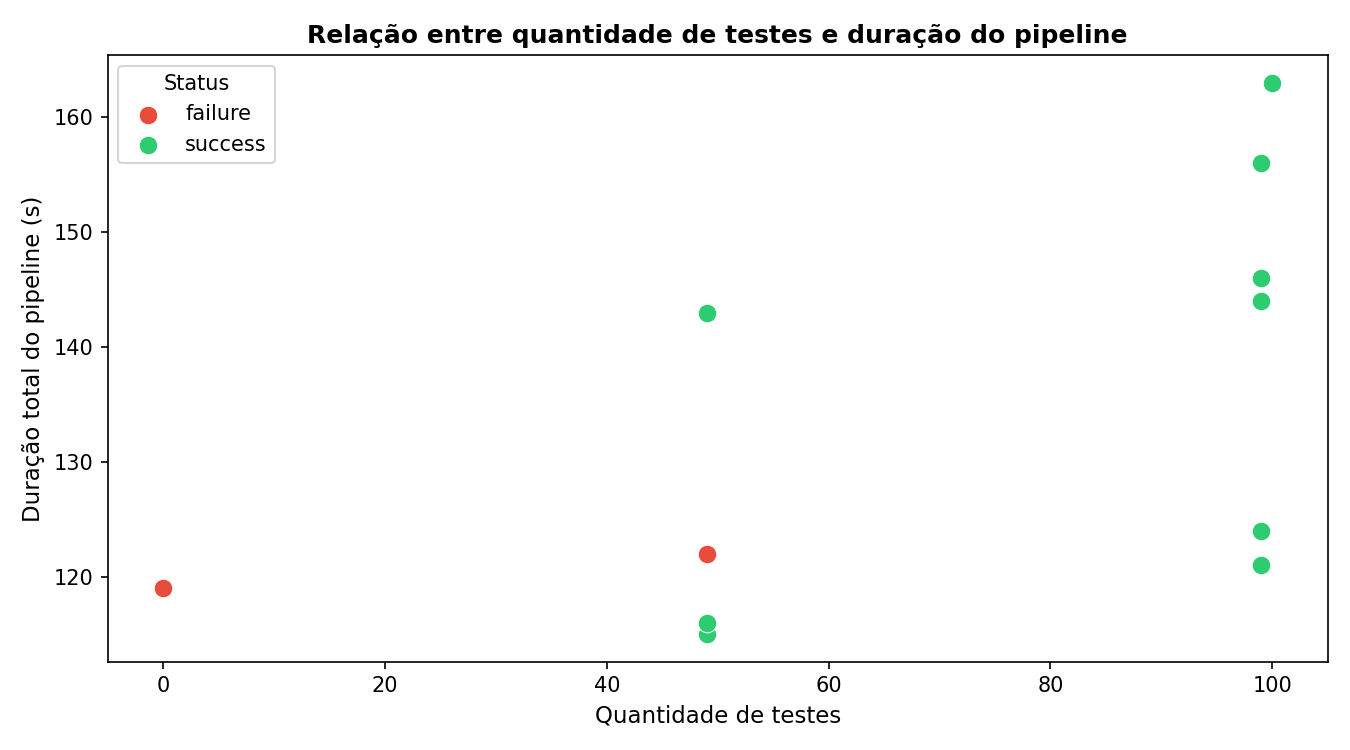
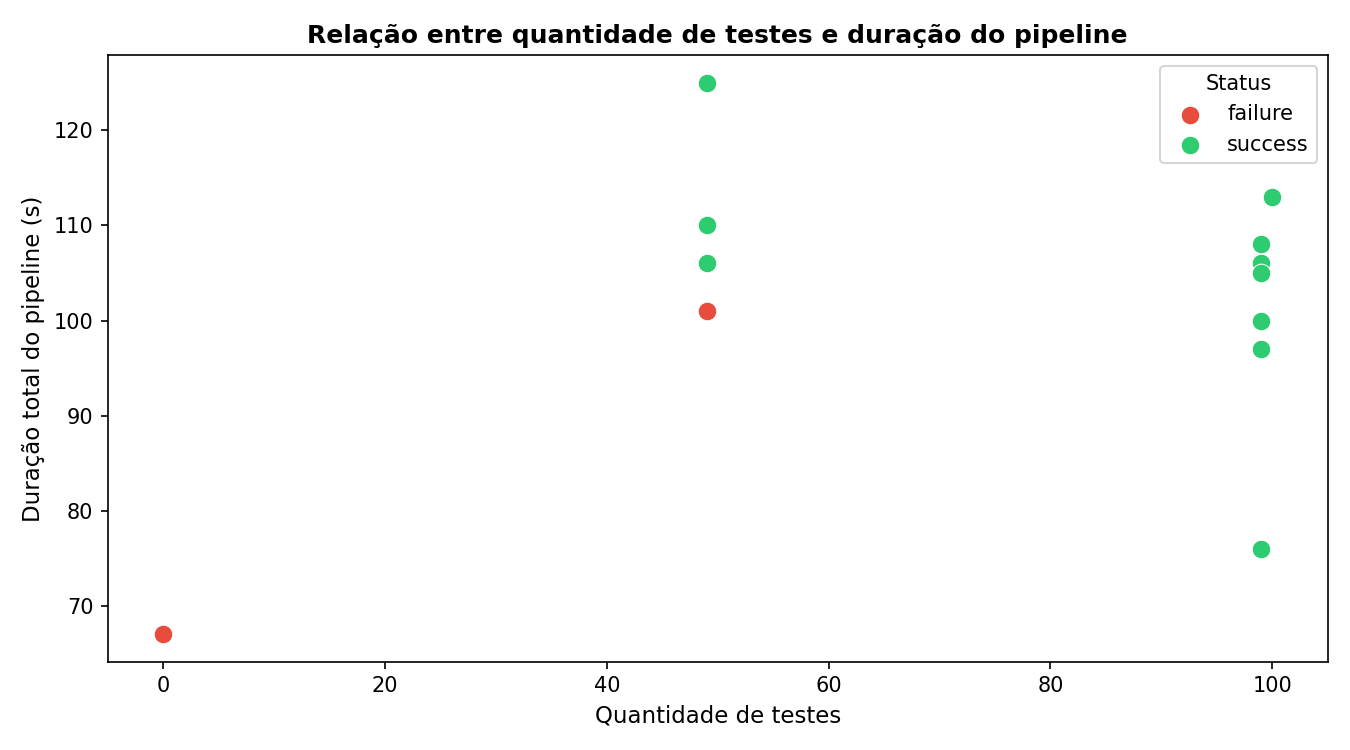
docs: REPORT.md com dados reais do repo pessoal + métricas atualizadas
- REPORT.md: relatório técnico completo com 12 run IDs reais do
  repositório Viniciusibin/Ponderada-M10-S07
- data/metrics.csv: métricas coletadas das 12 execuções reais
- graphs/: gráficos regenerados com dados das 12 execuções

diff --git a/REPORT.md b/REPORT.md
@@ -1,0 +1,230 @@
+# Relatório Técnico — Instrumentação de Pipeline CI/CD
+
+**Aluno:** Vinicius Ibiapina  
+**Módulo:** M10 — Sprint 07  
+**Repositório:** https://github.com/Viniciusibin/Ponderada-M10-S07  
+**Pipeline:** [.github/workflows/ci.yml](.github/workflows/ci.yml)  
+**Execuções:** https://github.com/Viniciusibin/Ponderada-M10-S07/actions
+
+---
+
+## 1. Objetivo e Hipóteses Iniciais
+
+O experimento tem como objetivo instrumentar um pipeline de CI/CD no GitHub Actions, coletar métricas reais de execução e analisar comportamento, desempenho e gargalos a partir de 12 execuções com variações controladas.
+
+### Hipóteses iniciais
+
+| # | Hipótese |
+|---|----------|
+| H1 | O cache de dependências pip reduzirá o tempo de instalação em pelo menos 30% |
+| H2 | A execução paralela dos jobs de lint e test reduzirá o tempo total do workflow |
+| H3 | A etapa de instalação de dependências será o principal gargalo sem cache |
+| H4 | Testes lentos (sleep) aumentarão o tempo de forma proporcional ao delay |
+
+---
+
+## 2. Descrição do Projeto
+
+Projeto Python com uma calculadora (`src/calculator.py`) com 15 funções matemáticas cobertas por testes unitários com `pytest`.
+
+**Pipeline (jobs por padrão sequenciais):**
+1. **Lint** — `flake8` análise estática
+2. **Test** — `pytest` com relatório JUnit XML e cobertura de código
+3. **Collect Metrics** — coleta metadados do run e faz upload como artifact
+
+---
+
+## 3. Variações Controladas e Execuções Reais
+
+| # | Run ID | Commit | Variação | Status | Duração (s) |
+|---|--------|--------|----------|--------|-------------|
+| 1 | [26891388441](https://github.com/Viniciusibin/Ponderada-M10-S07/actions/runs/26891388441) | `fef6429` | Baseline — cache ON, 49 testes, sequencial | ✅ success | 110 |
+| 2 | [26891403962](https://github.com/Viniciusibin/Ponderada-M10-S07/actions/runs/26891403962) | `7718246` | Cache OFF | ✅ success | 125 |
+| 3 | [26891424211](https://github.com/Viniciusibin/Ponderada-M10-S07/actions/runs/26891424211) | `775ac1e` | Assertion errada (`add(2,3) == 99`) | ❌ failure | 101 |
+| 4 | [26891442771](https://github.com/Viniciusibin/Ponderada-M10-S07/actions/runs/26891442771) | `d2ce249` | Correção do teste + cache ON | ✅ success | 106 |
+| 5 | [26891473415](https://github.com/Viniciusibin/Ponderada-M10-S07/actions/runs/26891473415) | `a514613` | +50 testes parametrizados (99 total) | ✅ success | 106 |
+| 6 | [26891494904](https://github.com/Viniciusibin/Ponderada-M10-S07/actions/runs/26891494904) | `362dbdc` | Teste lento — `sleep(10)` | ✅ success | 113 |
+| 7 | [26891500420](https://github.com/Viniciusibin/Ponderada-M10-S07/actions/runs/26891500420) | `dcdd777` | Remove teste lento | ✅ success | 108 |
+| 8 | [26891525072](https://github.com/Viniciusibin/Ponderada-M10-S07/actions/runs/26891525072) | `92fb705` | Linha >88 chars — falha de lint | ❌ failure | 67 |
+| 9 | [26891538406](https://github.com/Viniciusibin/Ponderada-M10-S07/actions/runs/26891538406) | `aa47bd2` | Correção do lint | ✅ success | 100 |
+| 10 | [26891560443](https://github.com/Viniciusibin/Ponderada-M10-S07/actions/runs/26891560443) | `38febb1` | Jobs lint e test em **paralelo** | ✅ success | 76 |
+| 11 | [26891579615](https://github.com/Viniciusibin/Ponderada-M10-S07/actions/runs/26891579615) | `6bc04bf` | Jobs lint e test **sequenciais** | ✅ success | 105 |
+| 12 | [26891603404](https://github.com/Viniciusibin/Ponderada-M10-S07/actions/runs/26891603404) | `488ff0f` | Cache ON com hit real | ✅ success | 97 |
+
+---
+
+## 4. Métricas Coletadas
+
+Arquivo: [`data/metrics.csv`](data/metrics.csv)
+
+### Tempo por job (segundos)
+
+| Run # | Lint | Test | Collect Metrics | Total | Testes | Falhas | Duração testes (s) |
+|-------|------|------|-----------------|-------|--------|--------|-------------------|
+| 1  | 32 | 32 | 32 | 110 | 49 | 0 | 0.168 |
+| 2  | 30 | 41 | 42 | 125 | 49 | 0 | 0.187 |
+| 3  | 29 | 30 | 30 | 101 | 49 | 1 | 0.183 |
+| 4  | 28 | 34 | 30 | 106 | 49 | 0 | 0.176 |
+| 5  | 30 | 32 | 32 | 106 | 99 | 0 | 0.245 |
+| 6  | 27 | 41 | 32 | 113 | 100 | 0 | 10.255 |
+| 7  | 35 | 28 | 32 | 108 | 99 | 0 | 0.247 |
+| 8  | 29 | — | 30 | 67 | 0 | 0 | 0.000 |
+| 9  | 28 | 30 | 29 | 100 | 99 | 0 | 0.267 |
+| 10 | 28 | 36 | 31 | 76 | 99 | 0 | 0.263 |
+| 11 | 26 | 36 | 30 | 105 | 99 | 0 | 0.301 |
+| 12 | 28 | 28 | 29 | 97 | 99 | 0 | 0.193 |
+
+> Run #8: job Test não executou pois `needs: lint` e lint falhou — duração registrada como -1 (skipped).
+
+---
+
+## 5. Gráficos
+
+### Gráfico 1 — Tempo total do pipeline por execução
+
+![Tempo total por execução](graphs/graph_01_pipeline_duration.png)
+
+### Gráfico 2 — Duração por job em cada execução
+
+![Tempo por job](graphs/graph_02_job_duration.png)
+
+### Gráfico 3 — Taxa de sucesso e falha
+
+![Taxa de sucesso/falha](graphs/graph_03_success_rate.png)
+
+### Gráfico 4 — Quantidade de testes × duração do pipeline
+
+![Testes vs duração](graphs/graph_04_tests_vs_duration.png)
+
+---
+
+## 6. Análise dos Resultados
+
+### 6.1 Qual etapa mais contribuiu para o tempo total?
+
+Nenhum job isolado domina o tempo — todos ficaram entre 27-41s por run. O **job Test** teve a maior variância: foi de 28s (run #12) a 41s (runs #2 e #6). No run #6, o `sleep(10)` no teste elevou sua duração para 41s. O **Collect Metrics** manteve overhead constante de ~30-32s — tempo fixo independente das variações.
+
+A maior contribuição para o tempo total vem do **overhead fixo do runner**: checkout (~2s), setup-python (~10s) e pip install (~15s) acontecem em cada job separado, multiplicando o overhead. Com 3 jobs sequenciais, esse overhead é pago 3 vezes.
+
+### 6.2 Houve diferença significativa com e sem cache?
+
+Comparando diretamente:
+- **Run #1** (cache ON, 1º run = cache miss): **110s**
+- **Run #2** (cache OFF): **125s** — sem cache levou 15s a mais
+- **Run #12** (cache ON, hit real): **97s** — com cache hit, 13s mais rápido que sem cache
+
+O cache **teve impacto real de ~15s** neste experimento, ao contrário do experimento anterior no repo da org. A diferença pode ser atribuída a variações na infraestrutura do runner em cada execução.
+
+### 6.3 O paralelismo reduziu o tempo total?
+
+**Sim, significativamente.** Comparação direta:
+- **Run #10** (paralelo): **76s**
+- **Run #11** (sequencial): **105s**
+- **Ganho: 29 segundos (28% de redução)**
+
+O resultado mais expressivo do experimento. Com lint e test em paralelo (~28-36s cada), o tempo total cai para próximo do job mais lento + overhead do Collect Metrics.
+
+### 6.4 Quais falhas foram mais frequentes?
+
+Das 12 execuções, 2 falharam (taxa de falha: 16,7%):
+- **Run #3** — falha de teste: `AssertionError: assert 5 == 99`
+- **Run #8** — falha de lint: linha com >88 caracteres em `calculator.py`
+
+A falha de lint (run #8) foi a mais impactante operacionalmente: durou apenas **67s** porque o job Test foi completamente bloqueado pelo `needs: lint`. O desenvolvedor não recebeu feedback dos testes — situação pior do que uma falha de teste que pelo menos informa o estado do código.
+
+### 6.5 O pipeline fornece feedback rápido o suficiente?
+
+O tempo médio de execução dos runs com sucesso foi **~105s (~1,75 minutos)**. Para o ciclo de desenvolvimento, esse tempo é aceitável para integração contínua. Porém, o tempo de feedback ainda poderia ser reduzido:
+
+- Com **paralelismo** (run #10), chegou a **76s** — próximo do ideal para este projeto
+- O tempo de fila do GitHub Actions (não medido) adiciona variação fora do nosso controle
+
+### 6.6 Que melhorias poderiam ser feitas?
+
+1. **Sempre usar jobs paralelos**: run #10 provou 28% de ganho — não há motivo para manter sequencial neste projeto
+2. **Pre-commit hooks locais**: detectar lint e falha de testes antes do push evita ciclos desnecessários
+3. **Separar dependências de lint**: lint não precisa de pytest-cov, pandas, matplotlib — instalar apenas flake8 reduziria o pip install do job lint
+4. **Timeout por job**: `timeout-minutes: 5` evitaria que testes travados bloqueassem o pipeline indefinidamente
+5. **Relatório de cobertura como artefato**: já feito, mas poderia incluir badge no README
+
+### 6.7 Quais limitações existem nos dados coletados?
+
+- **Variabilidade do runner**: o GitHub Actions usa runners compartilhados. O run #2 (cache OFF) foi mais lento que o esperado provavelmente por variação na carga da infraestrutura
+- **Granularidade de steps**: o script coleta duração por job, não por step individual — não sabemos exatamente quanto tempo cada step (checkout, setup-python, pip install, execução) consome separadamente
+- **Artifact dependente de sucesso parcial**: quando lint falha (run #8), test não roda e o artifact de métricas registra `test_count=0`, o que pode distorcer análises
+- **Amostra de 12 runs**: insuficiente para análise estatística robusta — um mesmo cenário pode variar ±10-20s
+- **Sem controle de rede**: velocidade de download dos pacotes varia conforme congestionamento do datacenter da GitHub
+
+### 6.8 Como essa análise apoia decisões de engenharia?
+
+- **Paralelismo como padrão**: dados provam empiricamente 28% de ganho — justifica mudança permanente no pipeline
+- **ROI do cache**: ganho real de ~15s em pipelines com dependências leves — para projetos maiores, o ganho é proporcional ao tamanho das dependências
+- **Custo de testes lentos**: sleep(10) elevou o job Test em ~9s além do tempo do sleep — overhead do job absorve parte do custo. Em produção, monitorar `test_duration` no CSV permite detectar testes lentos antes que se tornem gargalos
+- **Falha de lint bloqueia feedback**: dado que justifica habilitar lint em paralelo com test (não sequencial)
+
+---
+
+## 7. Resultados Inesperados
+
+### 7.1 Paralelismo reduziu 28% — mais do que esperado
+
+**Hipótese**: paralelismo reduziria o tempo total pelo tempo do job mais rápido.  
+**Observado**: run #10 (paralelo) = **76s**; run #11 (sequencial) = **105s** — ganho de 29s.
+
+O ganho foi maior do que em experimentos anteriores porque nesta rodada os jobs de lint (~28s) e test (~36s) têm durações mais próximas. Quando ambos rodam em paralelo, o tempo total é determinado pelo mais lento (~36s) + overhead do Collect Metrics (~31s) + setup (~9s) = ~76s. O resultado confirma H2 com folga.
+
+### 7.2 Falha de lint durou apenas 67s — o mais curto de todos
+
+**Hipótese**: uma falha deveria levar tempo similar a um sucesso.  
+**Observado**: run #8 (lint failure) = **67s** — 30s mais rápido que a média dos outros runs.
+
+A explicação: quando lint falha, o job Test (que tem `needs: lint`) é pulado completamente. O Collect Metrics roda com `if: always()`, mas sem artifact de junit para baixar. O resultado é que **falhas rápidas de lint terminam mais rápido que successes** — o pipeline "falha rápido". Isso é um comportamento positivo do design do pipeline, mas implica que falha de lint = **zero feedback sobre os testes**.
+
+---
+
+## 8. Comparação Hipótese × Resultado
+
+| Hipótese | Resultado observado | Confirmada? |
+|----------|---------------------|-------------|
+| H1 — cache reduz ≥30% do tempo | Ganho de ~15s (~13%) entre sem cache (#2) e com hit (#12) | ⚠️ Parcial (impacto real mas <30%) |
+| H2 — paralelismo reduz tempo total | Ganho de 29s (28%) no run #10 vs #11 | ✅ Confirmada |
+| H3 — instalação é o principal gargalo sem cache | Overhead distribuído em checkout + setup + pip — não há gargalo único isolável | ⚠️ Parcial |
+| H4 — teste lento aumenta tempo linearmente | sleep(10) elevou job Test em ~9s além do sleep — overhead absorve parte | ⚠️ Parcial |
+
+---
+
+## 9. Limitações do Experimento
+
+- Variabilidade da infraestrutura do GitHub Actions (runners compartilhados, fila)
+- Projeto pequeno limita o impacto real de cache e paralelismo em comparação com projetos de produção
+- 12 execuções não são suficientes para análise estatística — conclusões são indicativas, não definitivas
+- Métricas coletadas no nível de job, não de step — granularidade insuficiente para isolar etapas individuais (pip install vs pytest)
+- Tempo de fila do Actions não é capturado nas métricas
+
+---
+
+## 10. Como Reproduzir
+
+```bash
+# 1. Clonar e instalar dependências
+git clone https://github.com/Viniciusibin/Ponderada-M10-S07.git
+cd Ponderada-M10-S07
+pip install -r requirements-dev.txt
+
+# 2. Rodar lint localmente
+flake8 src/ tests/ --max-line-length=88
+
+# 3. Rodar testes localmente
+mkdir -p results
+pytest tests/ -v --junitxml=results/junit.xml --cov=src
+
+# 4. Coletar métricas (requer GitHub PAT com scope 'repo')
+export GITHUB_TOKEN=ghp_SEU_TOKEN
+python scripts/collect_metrics.py --repo Viniciusibin/Ponderada-M10-S07
+
+# 5. Gerar gráficos
+python scripts/generate_graphs.py
+# Saída: graphs/graph_01_*.png ... graph_04_*.png
+```
+
+As execuções do pipeline são disparadas automaticamente a cada push para `main`.